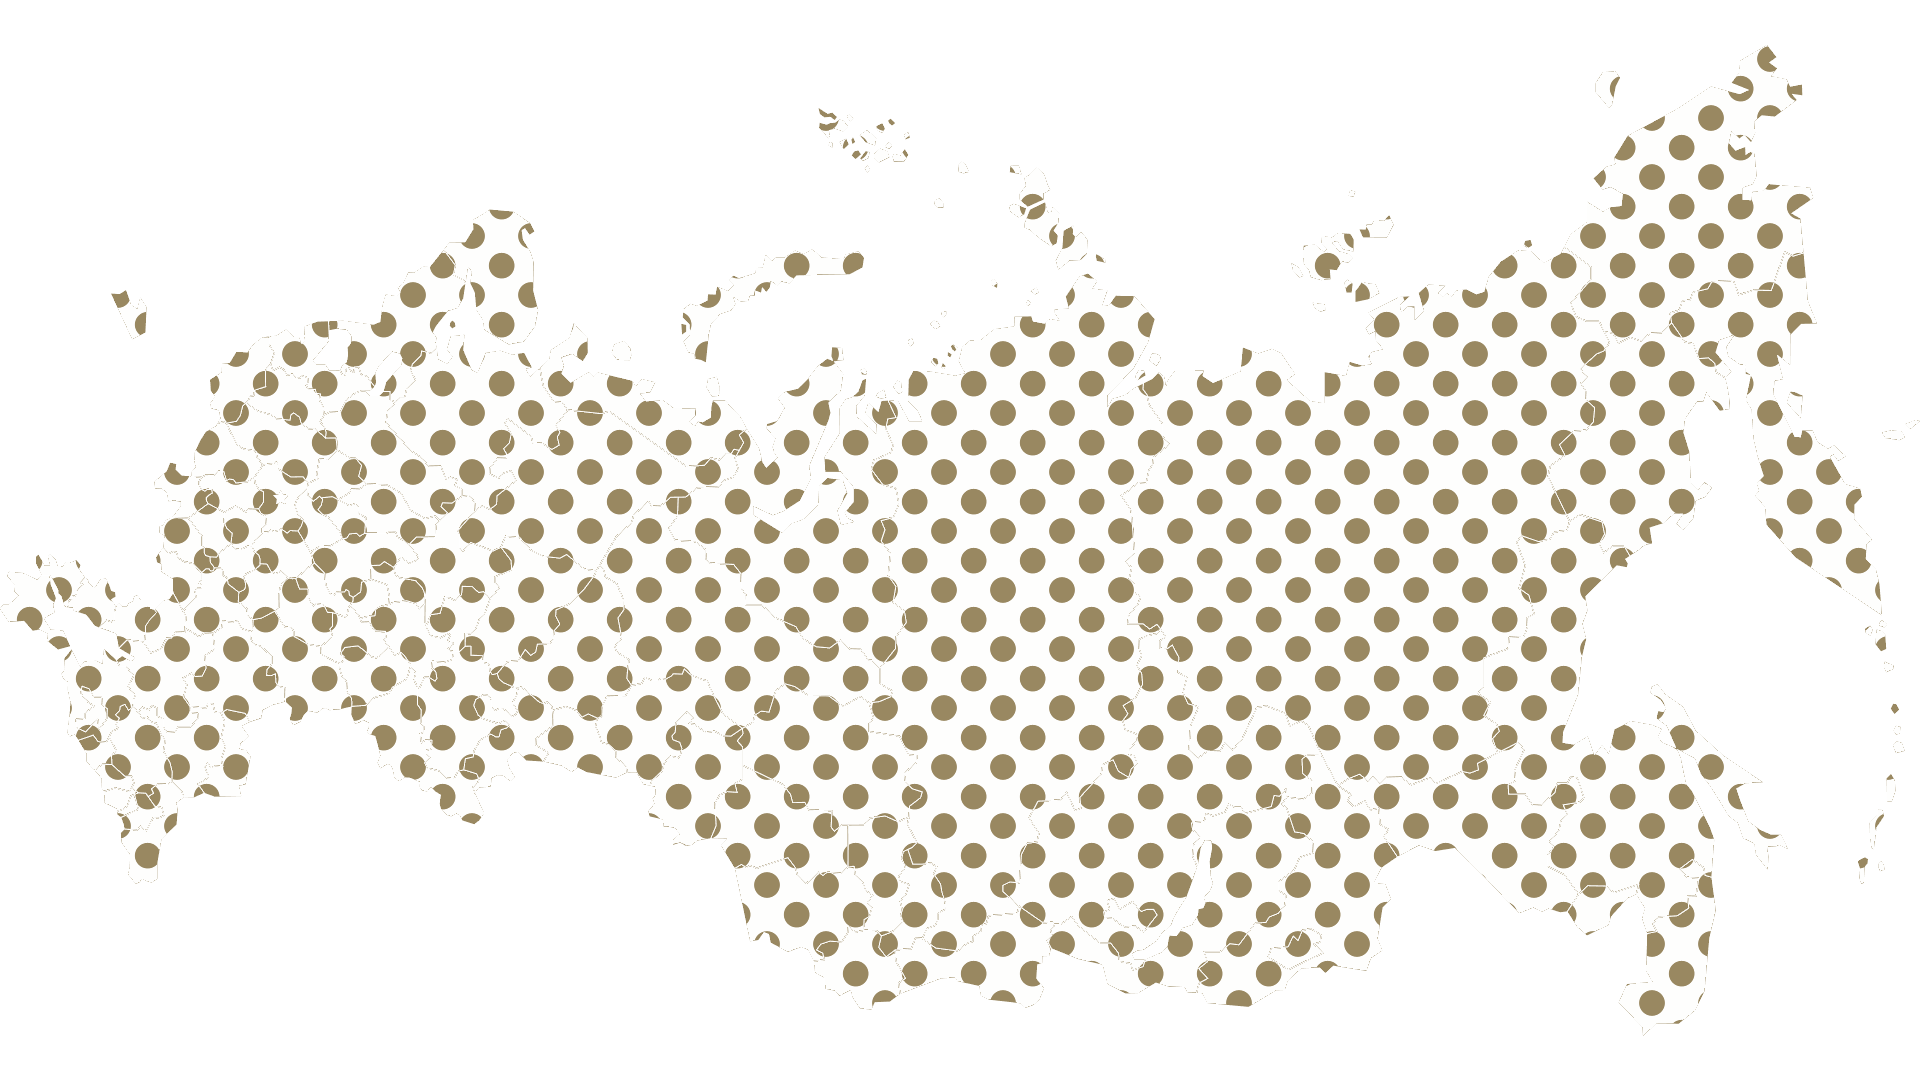
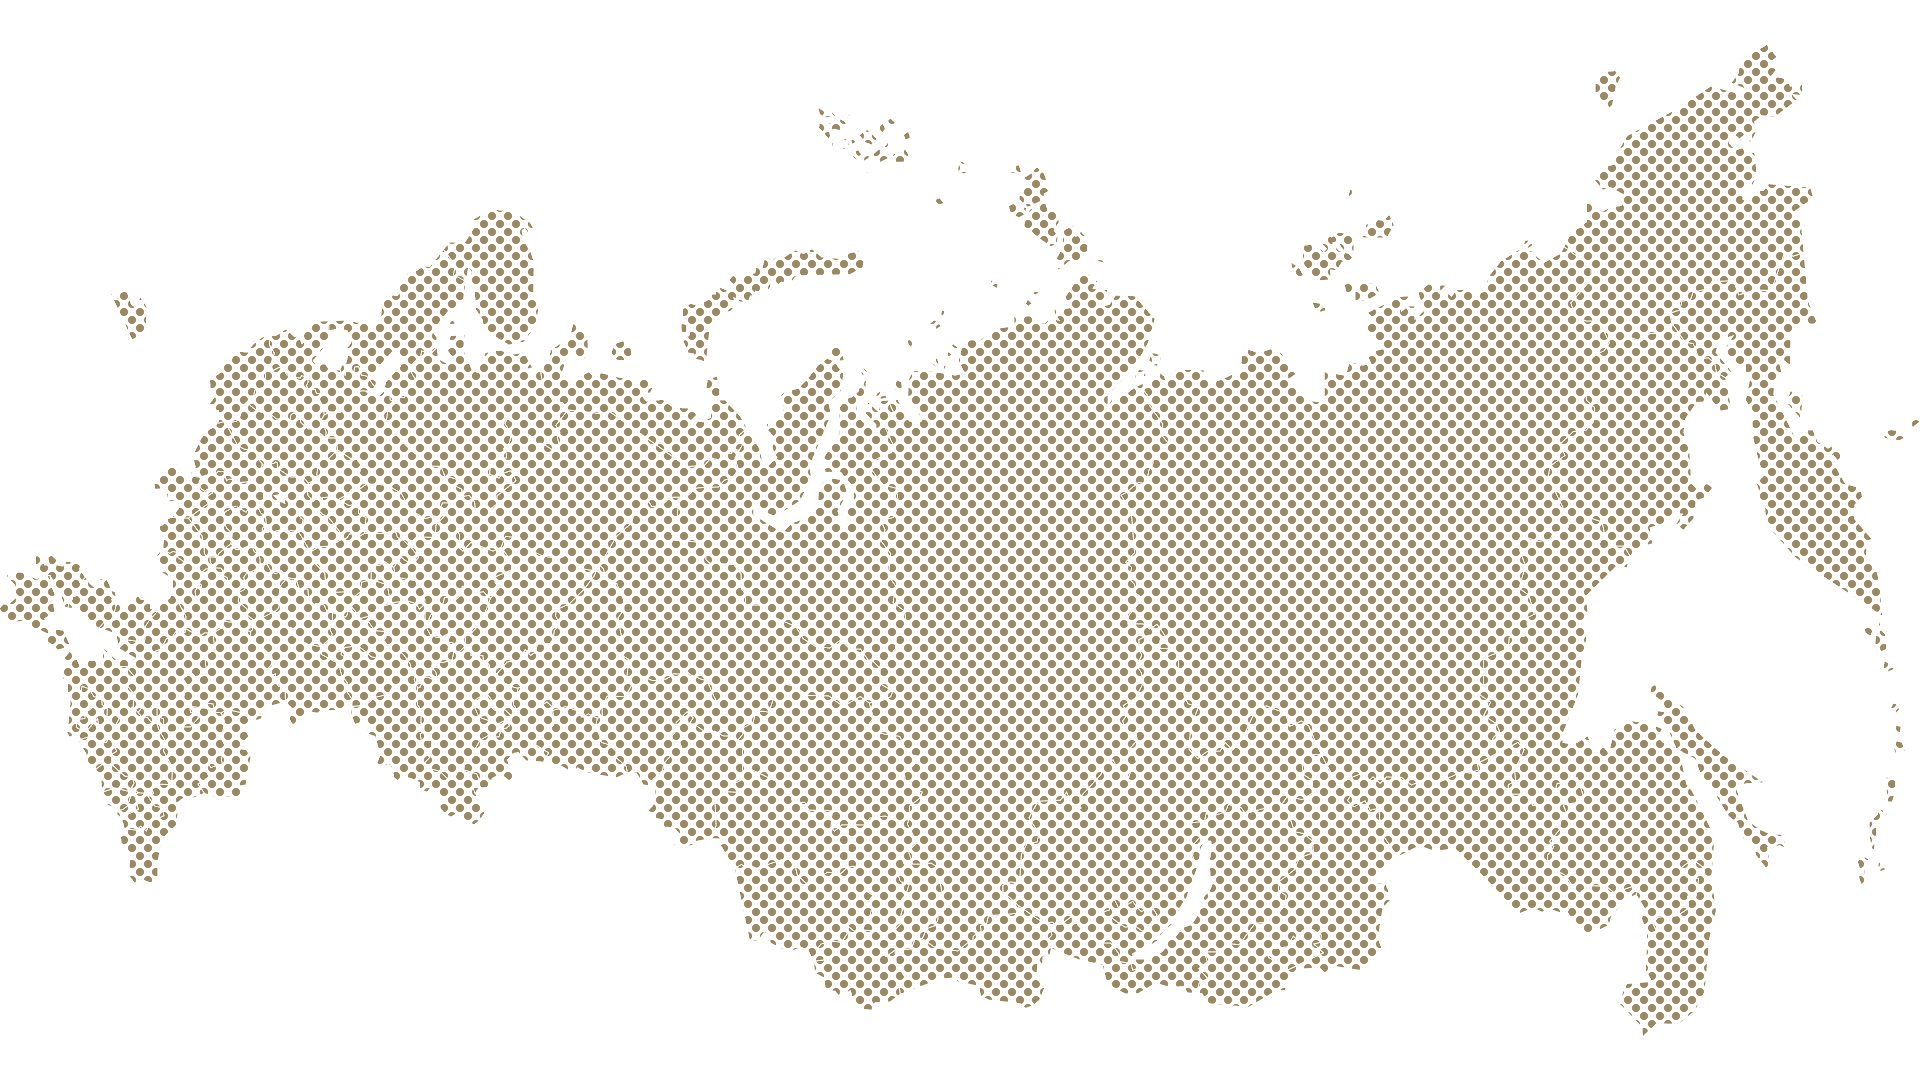
geography variants

diff --git a/src/widgets/geography/ui/Geography.module.scss b/src/widgets/geography/ui/Geography.module.scss
@@ -9,11 +9,12 @@
   .vline {
     width: 0; // чтобы не влиять на расчет колонок
     border-left: 1px solid rgba(138, 138, 138, 0.5);
+    z-index: 3;
   }
   .gridLines {
     display: grid;
     grid-template-columns: 50px repeat(4, 1fr) 50px;
-    grid-template-rows: 500px auto auto auto auto;
+    grid-template-rows: 50px auto auto auto 50px;
     position: relative;
     background-color: $background-light;
     grid-auto-columns: 1fr;
@@ -23,8 +24,11 @@
 }
 
 .geographyImgWrapper {
-  position: absolute;
-  inset: 0;
+  grid-column: 3/6;
+  grid-row: 1/7;
+  // margin-left: -40%;
+  // position: absolute;
+  // inset: 0;
   z-index: 2;
 
   &::after {
@@ -37,18 +41,100 @@
 
   img {
     width: 100%;
-    height: auto;
-    display: block;
+
+    object-fit: contain;
   }
 }
 
-.textBlock {
-  grid-column: 3/5;
-  grid-row: 1;
-  margin-left: -40%;
-  margin-right: -10%;
+.geographyTextBlock {
+  grid-column: 3/4;
+  grid-row: 2;
+  margin-left: -80%;
   padding: 40px 40px;
   border: 2px solid #998861;
   background: transparent;
-  z-index: 3; // текст поверх всего
+  z-index: 3;
+
+  .geographySubtitle {
+    @include font-medium;
+    @include text-sm;
+
+    text-transform: uppercase;
+    letter-spacing: 1px;
+    margin-bottom: 20px;
+    position: relative;
+
+    &::before {
+      content: "";
+      position: absolute;
+      top: -10px;
+      left: 0;
+      width: 30px;
+      height: 2px;
+      background-color: $color-primary;
+    }
+  }
+
+  h2 {
+    @include font-bold;
+    @include text-3xl;
+    color: $color-secondary;
+    margin: 0;
+    line-height: 1.2;
+  }
+}
+
+.geographyVariants {
+  list-style: none;
+  grid-row: 2/6;
+  grid-column: 4/6;
+
+  display: grid;
+  grid-template-rows: repeat(3, auto);
+  grid-template-columns: repeat(2, 1fr);
+  z-index: 3;
+
+  .variant {
+    border-left: 1px solid rgba(138, 138, 138, 0.5);
+  }
+  .variant0 {
+    grid-column: 1;
+    grid-row: 1;
+  }
+  .variant1 {
+    grid-column: 2;
+    grid-row: 1;
+  }
+  .variant2 {
+    grid-column: 1;
+    grid-row: 2;
+  }
+  .variant3 {
+    grid-column: 2;
+    grid-row: 2;
+  }
+  .variant4 {
+    grid-column: 1;
+    grid-row: 3;
+  }
+  .variant5 {
+    grid-column: 2;
+    grid-row: 3;
+  }
+  .text {
+    @include text-xl;
+    margin: 0 0 10px 0;
+    padding: 20px 20px;
+    position: relative;
+
+    &::before {
+      content: "";
+      position: absolute;
+      top: -10px;
+      left: 0;
+      width: 30px;
+      height: 2px;
+      background-color: $color-primary;
+    }
+  }
 }

diff --git a/src/widgets/geography/ui/Geography.tsx b/src/widgets/geography/ui/Geography.tsx
@@ -2,6 +2,15 @@ import { FC } from "react";
 import styles from "./Geography.module.scss";
 import { geographyImg } from "@/shared/images";
 
+const geographyVariants = [
+  { text: "Республика Крым (Симферополь, Севастополь, Ялта и др.)" },
+  { text: "Донецкая Народная Республика" },
+  { text: "Луганская Народная Республика" },
+  { text: "Запорожская область" },
+  { text: "Херсонская область" },
+  { text: "Обслуживание клиентов по всей территории РФ" },
+];
+
 export const Geography: FC = () => {
   return (
     <section className={styles.geography}>
@@ -16,10 +25,20 @@ export const Geography: FC = () => {
             alt="geography"
           />
         </div>
-        <div className={styles.textBlock}>
-          <h2>Заголовок</h2>
-          <p>Текст поверх сетки и изображения</p>
+        <div className={styles.geographyTextBlock}>
+          <p className={styles.geographySubtitle}>География обслуживания</p>
+          <h2>Работаем с бизнесом в Крыму и новых регионах РФ</h2>
         </div>
+        <ul className={styles.geographyVariants}>
+          {geographyVariants.map((variant, index) => (
+            <li
+              key={index}
+              className={`${styles.variant} ${styles["variant" + index]}`}
+            >
+              <p className={styles.text}>{variant.text}</p>
+            </li>
+          ))}
+        </ul>
       </div>
     </section>
   );

diff --git a/src/shared/images/index.ts b/src/shared/images/index.ts
@@ -1,5 +1,5 @@
 // @ts-ignore
-import logoImg from "./logo2.webp";
+import logoImg from "./Logo.png";
 import conceptImg from "./consept1.svg";
 import conceptImg2 from "./consept2.svg";
 import conceptImg3 from "./consept3.svg";
@@ -7,7 +7,7 @@ import conceptImg4 from "./consept4.svg";
 import conceptImg5 from "./consept5.svg";
 import conceptImg6 from "./consept6.svg";
 import conceptImg7 from "./consept7.svg";
-import geographyImg from "./mother-russia-07.png";
+import geographyImg from "./mother-russia-05.png";
 
 export {
   logoImg,

diff --git a/src/widgets/header/ui/Header.tsx b/src/widgets/header/ui/Header.tsx
@@ -48,6 +48,7 @@ export function Header() {
         <img src={logoImg} alt="logo" />
       </a>
       <div className={styles.headerContent}>
+       
         <nav className={`${styles.nav} ${isMenuOpen ? styles.navOpen : ""}`}>
           <ul className={styles.navList}>
             {navigation.map((item) => {

diff --git a/src/widgets/header/ui/mixins.scss b/src/widgets/header/ui/mixins.scss
@@ -82,8 +82,8 @@
   text-decoration: none;
 
   img {
-    width: 30px;
-    height: 30px;
+    width: 40px;
+    height: 40px;
     transition: transform 0.2s ease;
   }
 
